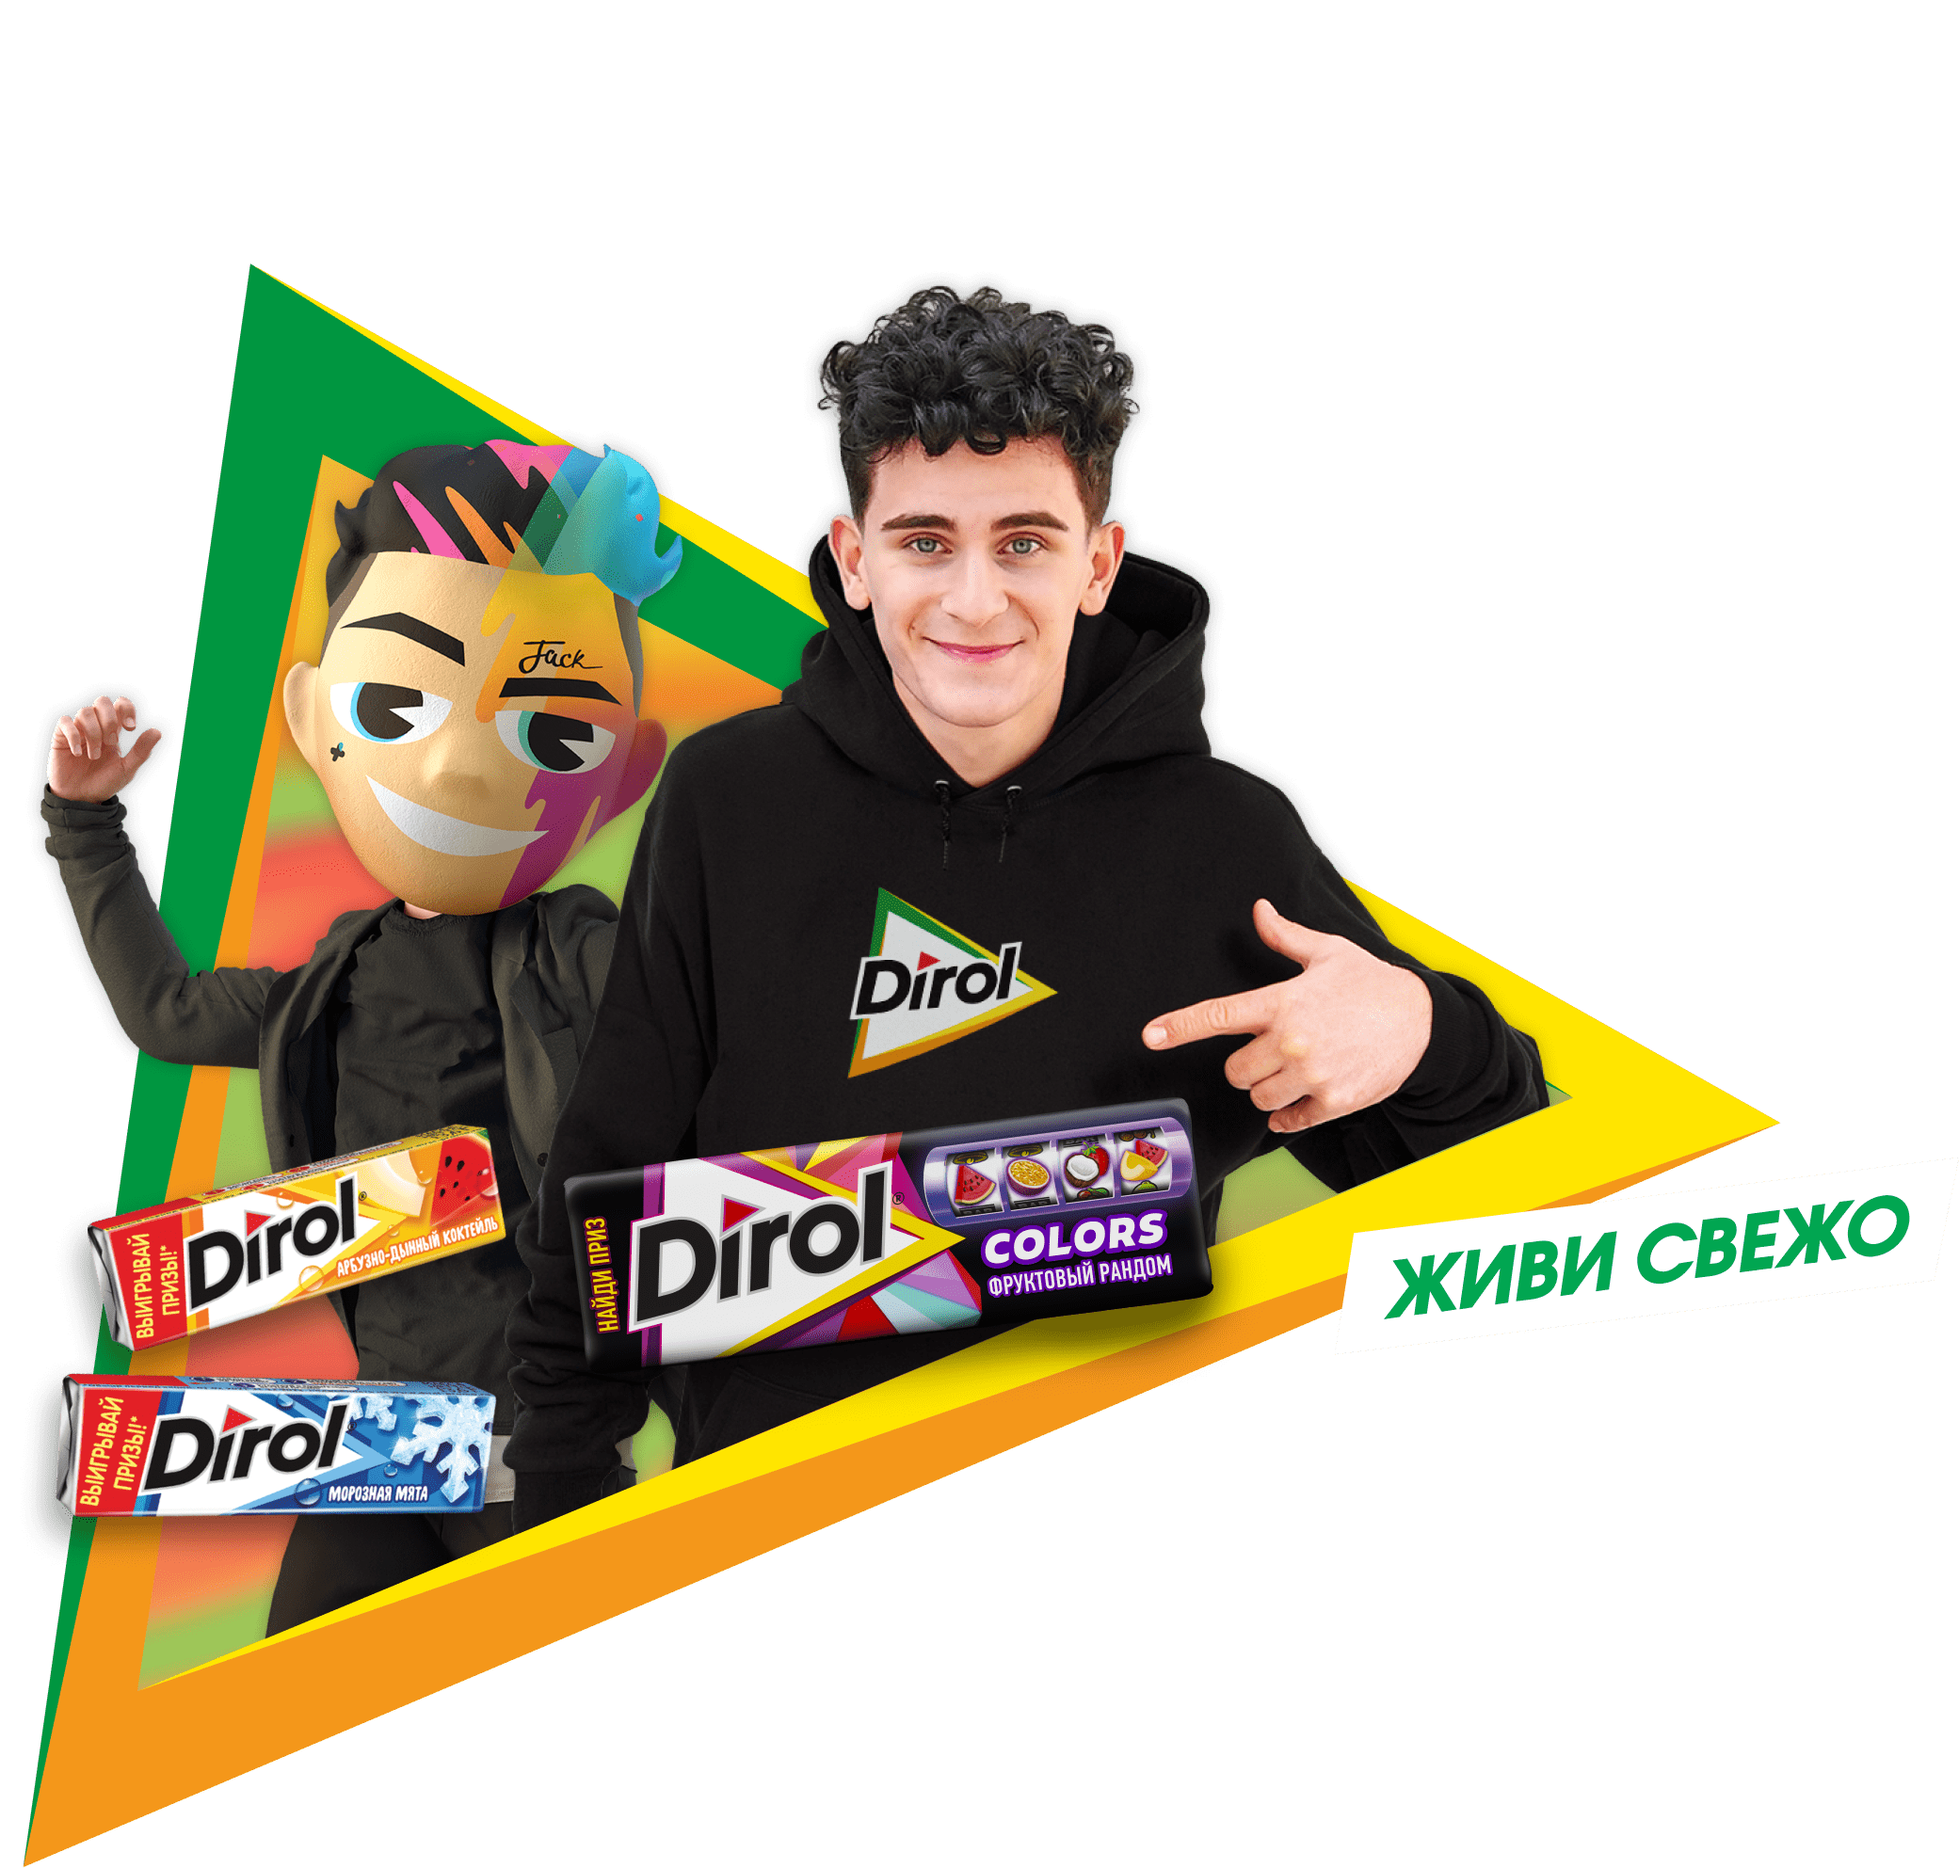
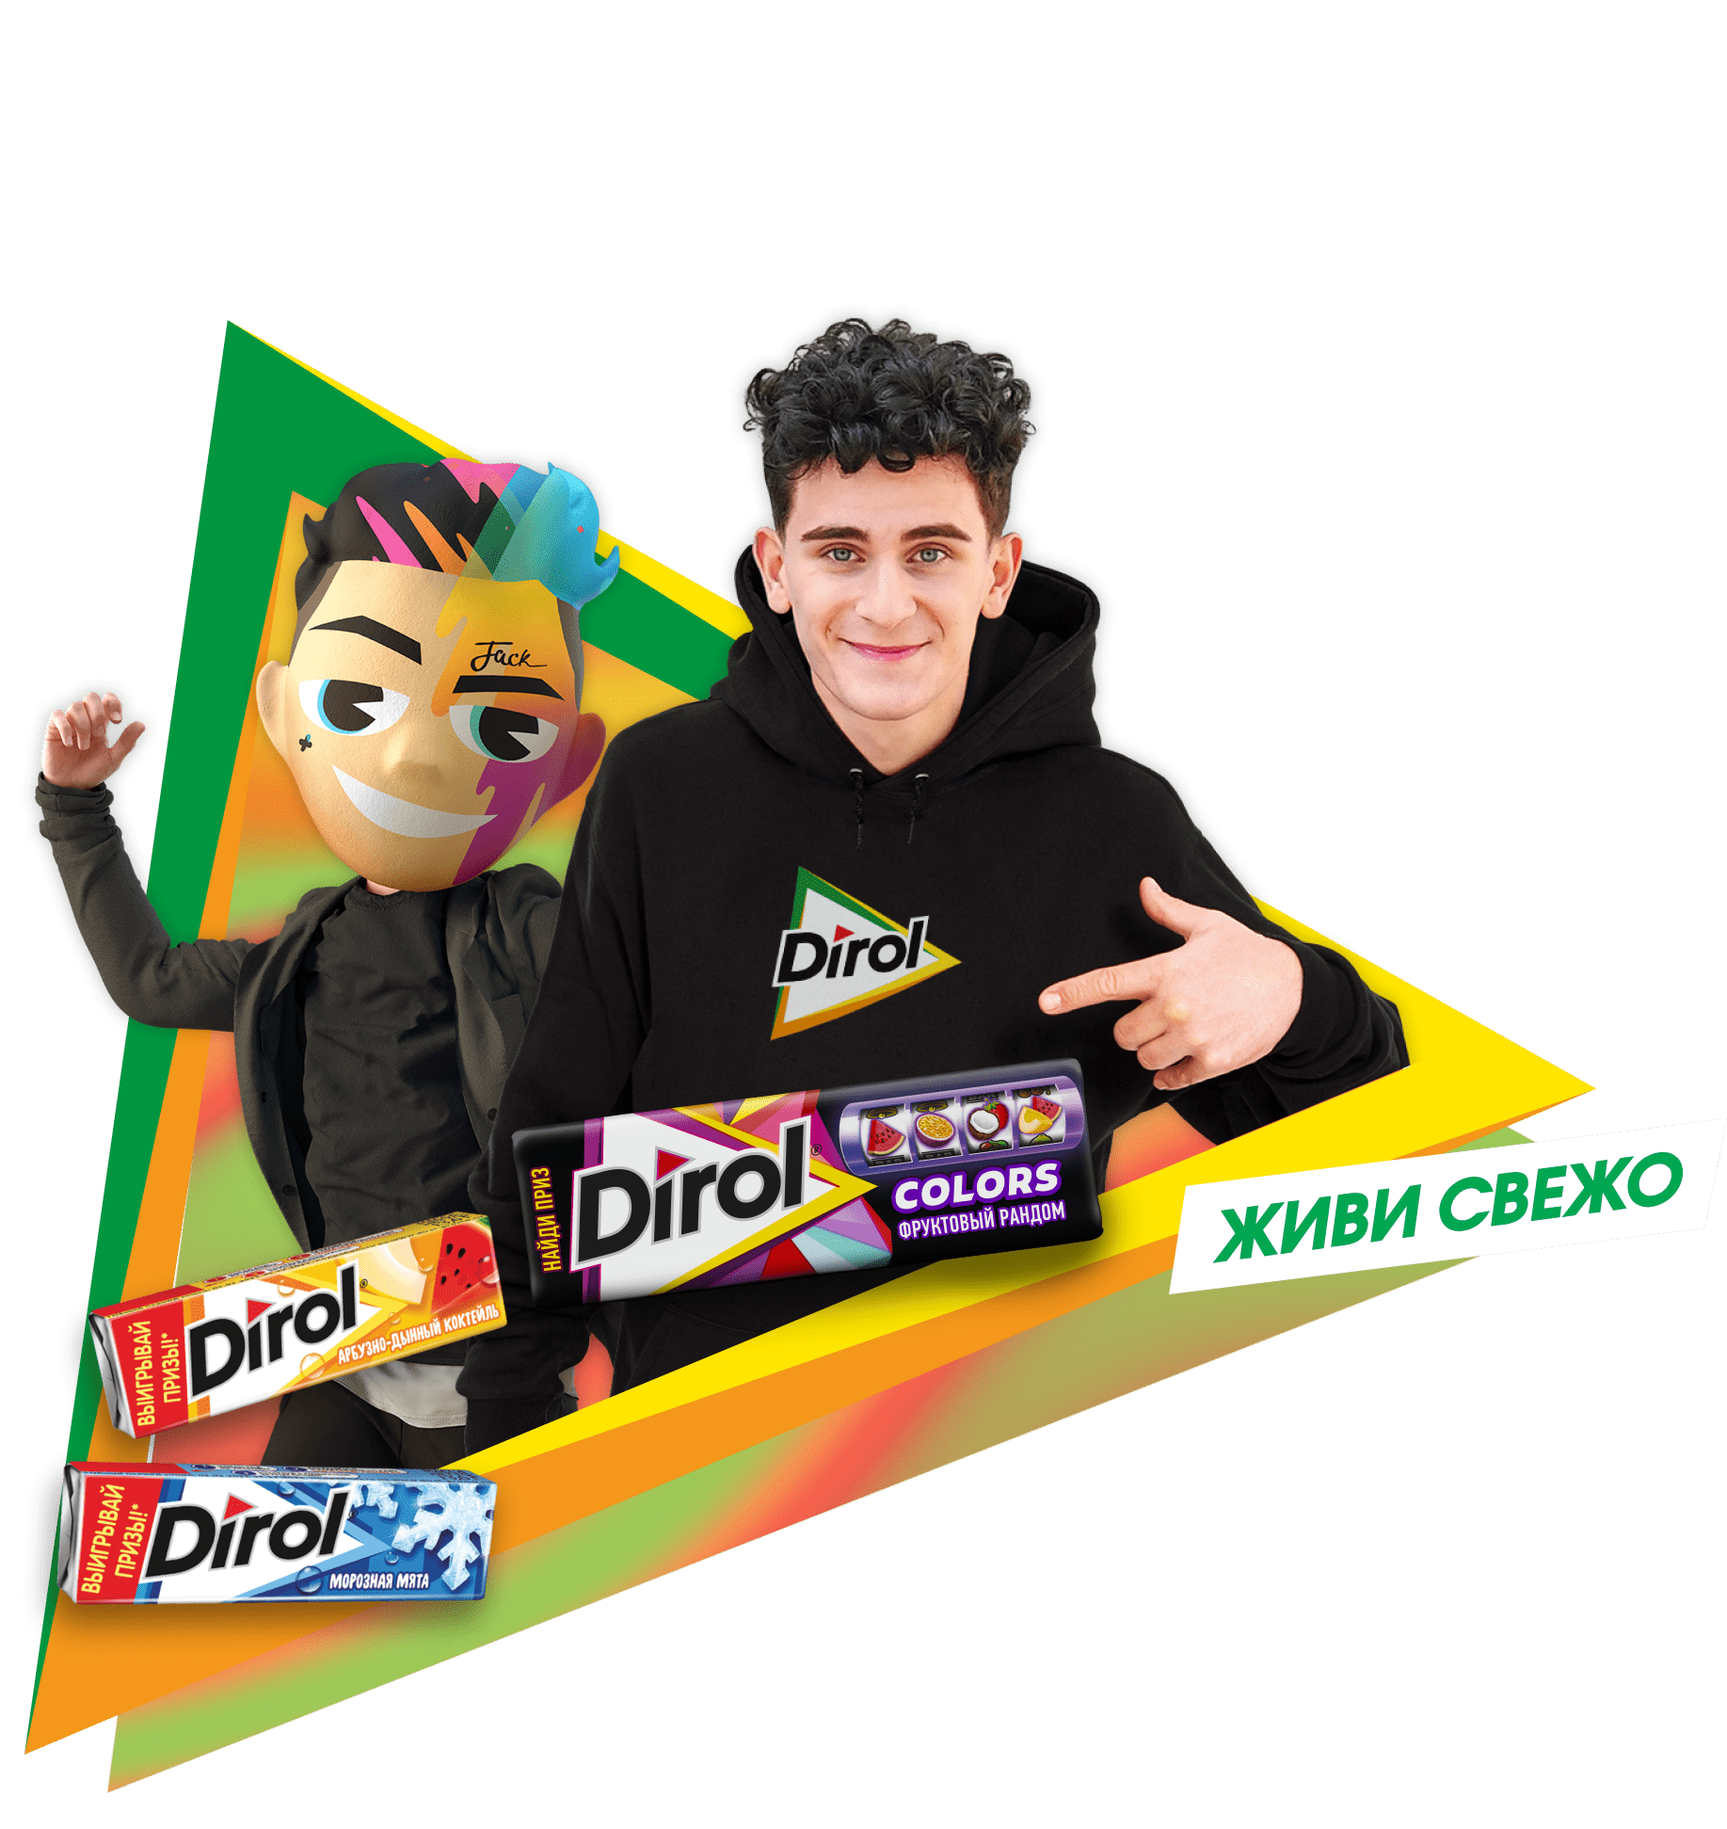
new steps

Changed region(s): [[0.0, 0.1235, 0.994, 1.0]]

diff --git a/css/styles.css b/css/styles.css
@@ -668,7 +668,7 @@ header {
 }
 
 header ~ .main-page {
-    padding-top: 130rem;
+    padding-top: 150rem;
 }
 
 header ~ .inner-page {
@@ -2063,16 +2063,16 @@ table td:nth-child(3) {
 
 .main-jack {
     position: relative;
-    max-width: 1041rem;
+    max-width: 700rem;
     width: 100%;
     height: 843rem;
 }
 
 .main-jack img {
     position: absolute;
-    top: -150rem;
+    top: -120rem;
     left: 50rem;
-    max-width: 1041rem;
+    max-width: 835rem;
 }
 
 .main-info {
@@ -2080,14 +2080,14 @@ table td:nth-child(3) {
     flex-direction: column;
     -ms-align-items: flex-end;
     align-items: flex-end;
-    max-width: 885rem;
+    max-width: 1050rem;
     width: 100%;
 }
 
 .kv {
-    max-width: 956rem;
+    max-width: 1011rem;
     width: 100%;
-    height: 411rem;
+    height: 231rem;
     background: url(../img/kv.png) center no-repeat;
     background-size: contain;
 }
@@ -2095,23 +2095,42 @@ table td:nth-child(3) {
 .steps {
     display: flex;
     justify-content: space-between;
-    max-width: 845rem;
+    max-width: 1050rem;
     width: 100%;
-    margin-top: 50rem;
-    transform: skewX(-10deg);
+    margin-top: 40rem;
 }
 
 .step {
-    max-width: 300rem;
+    position: relative;
+    max-width: 340rem;
     width: 100%;
+    padding-top: 300rem;
 }
 
 .step:nth-child(1) {
-    margin-top: 120rem;
+    max-width: 300rem;
 }
 
-.step:nth-child(2) {
-    margin-top: 60rem;
+.step-img {
+    position: absolute;
+    top: 0;
+    left: 0;
+    right: 0;
+    height: 300rem;
+    margin: auto;
+}
+
+.step:nth-child(2) .step-img {
+    top: -110rem;
+    left: -150rem;
+    right: -150rem;
+    width: 499rem;
+}
+
+.step:nth-child(3) .step-img {
+    left: -150rem;
+    right: -190rem;
+    width: 305rem;
 }
 
 .step-title {
@@ -2130,6 +2149,7 @@ table td:nth-child(3) {
     line-height: 1;
     text-transform: uppercase;
     color: #009640;
+    transform: skewX(-10deg);
 }
 
 .step-text {
@@ -2139,9 +2159,32 @@ table td:nth-child(3) {
     text-align: center;
 }
 
+.step-text2 {
+    display: flex;
+    -ms-align-items: center;
+    align-items: center;
+    justify-content: center;
+    max-width: 340rem;
+    width: max-content;
+    min-height: 72rem;
+    margin: 10rem auto 5rem;
+    padding: 9rem 20rem 10rem;
+    background: #fff;
+    font-style: italic;
+    text-align: center;
+    font-size: 22rem;
+    line-height: 1;
+    color: #009640;
+    transform: skewX(-10deg);
+}
+
 .step-text a,
 .step-text span {
     color: #FFE500;
+}
+
+.step-text2 + .btn-wrapper {
+    margin-top: 30rem;
 }
 
 .steps + .btn-wrapper {
@@ -3396,9 +3439,8 @@ table td:nth-child(3) {
 
     .kv {
         position: relative;
-        max-width: 296px;
+        max-width: 294px;
         height: 81px;
-        margin-bottom: 280px;
         background: url(../img/kv-mob.png) center no-repeat;
         background-size: contain;
         order: -1;
@@ -3411,19 +3453,30 @@ table td:nth-child(3) {
         align-items: center;
         transform: none;
         max-width: 100%;
-        margin-top: 20px;
+        margin-top: 30px;
     }
 
     .step {
-        max-width: 230px;
+        max-width: 300px !important;
         margin: 0 auto 20px;
-        margin-bottom: 20px;
-        transform: skewX(-10deg);
+        padding-top: 230px;
     }
 
-    .step:nth-child(1),
-    .step:nth-child(2) {
-        margin-top: 0;
+    .step:nth-child(1) {
+        padding-top: 0
+    }
+
+    .step:nth-child(2) .step-img {
+        top: -50px;
+        left: -100px;
+        right: -100px;
+        width: 321px;
+    }
+
+    .step:nth-child(3) .step-img {
+        left: -100px;
+        right: -130px;
+        width: 212px;
     }
 
     .step-title {
@@ -3439,6 +3492,15 @@ table td:nth-child(3) {
     .step-text {
         font-size: 16px;
         line-height: 19px;
+    }
+
+    .step-text2 {
+        max-width: 300px;
+        min-height: 58px;
+        margin: 10px auto 5px;
+        padding: 9px 20px 10px;
+        font-size: 18px;
+        line-height: 20px;
     }
 
     .main-info .code-form {

diff --git a/index.html b/index.html
@@ -74,27 +74,36 @@
 			</header>
 			<section class="main-page">
 				<div class="main-block">
-					<div class="main-jack">
-						<img src="img/jack.png" class="desktop-visible" alt="">
-						<img src="img/jack-mob.png" class="mobile-visible" alt="">
+					<div class="main-jack desktop-visible">
+						<img src="img/jack.png" alt="">
 					</div>
 					<div class="main-info">
 						<div class="kv"></div>
 						<div class="steps">
 							<div class="step">
 								<div class="step-title">1. Купите Dirol</div>
-								<div class="step-text">от 2-х пачек в торговой <br>сети «Магнит»</div>
+								<div class="step-text">от 2-х пачек в торговой <br>сети «Магнит» и загрузите <br>чек от покупки</div>
 							</div>
 							<div class="step">
-								<div class="step-title">2. Загрузите</div>
-								<div class="step-text">чек от покупки</div>
+								<div class="step-img">
+									<img src="img/step2.png" alt="">
+								</div>
+								<div class="step-title">2. Предлагайте</div>
+								<div class="step-text">идею челленджа <br>и выигрывайте каждый день:</div>
+								<div class="step-text2">Экшн-камеру, крутой <br>смартфон и другие призы</div>
+								<div class="btn-wrapper desktop-visible">
+									<a href="#!" class="btn pop-op" data-popup="auth">Загрузить чек</a>
+								</div>
 							</div>
 							<div class="step">
-								<div class="step-title">3. Выигрывайте</div>
-								<div class="step-text">классные призы и главный приз — <span>дуэт-челлендж <br>с Артуром Бабичем!</span></div>
+								<div class="step-img">
+									<img src="img/step3.png" alt="">
+								</div>
+								<div class="step-title">3. ГЛАВНЫЙ ПРИЗ</div>
+								<div class="step-text2">станьте участником <br>дуэта с Артуром Бабичем</div>
 							</div>
 						</div>
-						<div class="btn-wrapper">
+						<div class="btn-wrapper mobile-visible">
 							<a href="#!" class="btn pop-op" data-popup="auth">Загрузить чек</a>
 						</div>
 					</div>

diff --git a/lk.html b/lk.html
@@ -614,7 +614,7 @@
                 <div class="popup__inner">
                     <div class="popup__title">Загрузка чека</div>
                     <div class="iframe-wrap">
-                        <iframe src="https://checkservice.emg.ru/angular/?id=44eb1f4b-20f4-460f-82a4-25e32ed9f7fa&participantId=3&hash=e9e5b6e40d281880f387add3a4c8095f&disabledCamerasFoundCheck=1" class="iframe" frameborder="0"></iframe>
+                        <iframe src="https://checkservice.emg.ru/angular/?id=44eb1f4b-20f4-460f-82a4-25e32ed9f7fa&participantId=3&hash=e9e5b6e40d281880f387add3a4c8095f" class="iframe" frameborder="0"></iframe>
                     </div>
                 </div>
             </div>
